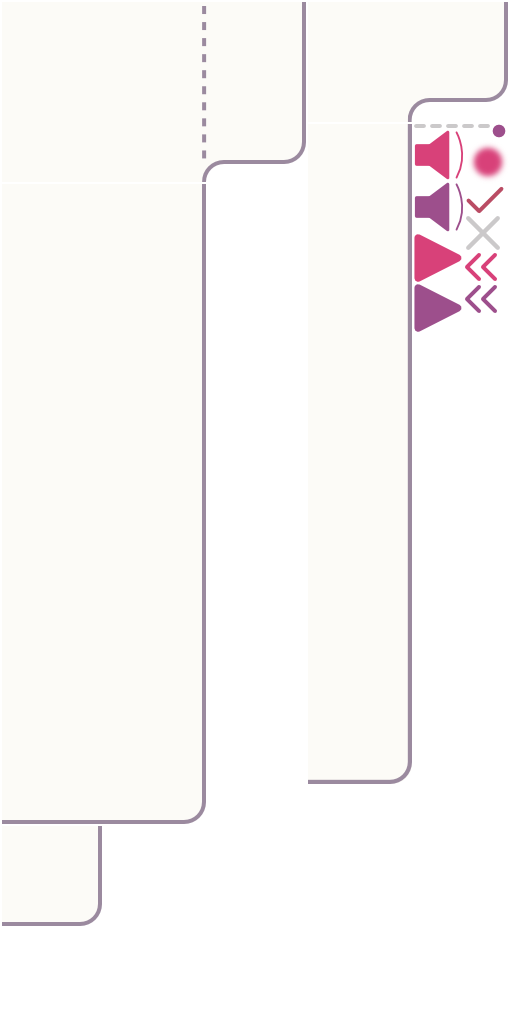
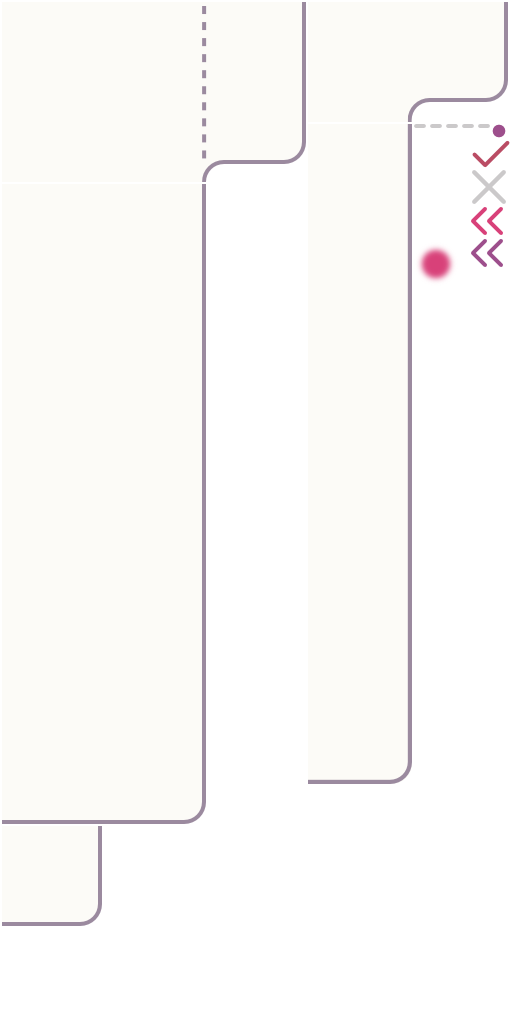
update play and speaker buttons

Changed region(s): [[0.7812, 0.125, 1.0, 0.3438]]

diff --git a/PttrnFlow/PttrnFlow/Generic Nodes/ToggleButton.m b/PttrnFlow/PttrnFlow/Generic Nodes/ToggleButton.m
@@ -11,15 +11,24 @@
 
 @interface ToggleButton ()
 
+@property (weak, nonatomic) id<ToggleButtonDelegate> delegate;
+
+// using different sprites for on / off state
 @property (weak, nonatomic) CCSprite *offSprite;
 @property (weak, nonatomic) CCSprite *onSprite;
-@property (weak, nonatomic) id<ToggleButtonDelegate> delegate;
+
+// using tint colors with one sprite for on / off state
+@property (assign) ccColor3B defaultColor;
+@property (assign) ccColor3B activeColor;
 
 @end
 
 @implementation ToggleButton
 
-- (id)initWithPlaceholderFrameName:(NSString *)placeholderFrameName offFrameName:(NSString *)offFrameName onFrameName:(NSString *)onFrameName delegate:(id<ToggleButtonDelegate>)delegate
+- (id)initWithPlaceholderFrameName:(NSString *)placeholderFrameName
+                      offFrameName:(NSString *)offFrameName
+                       onFrameName:(NSString *)onFrameName
+                          delegate:(id<ToggleButtonDelegate>)delegate
 {
     self = [super initWithSpriteFrameName:placeholderFrameName];
     if (self) {
@@ -43,11 +52,38 @@
     return self;
 }
 
+- (id)initWithFrameName:(NSString *)frameName
+           defaultColor:(ccColor3B)defaultColor
+            activeColor:(ccColor3B)activeColor
+               delegate:(id<ToggleButtonDelegate>)delegate
+{
+    self = [super initWithSpriteFrameName:frameName];
+    if (self) {
+        self.delegate = delegate;
+        self.defaultColor = defaultColor;
+        self.activeColor = activeColor;
+        self.color = defaultColor;
+    }
+    return self;
+}
+
+
 - (void)toggle
 {
     self.isOn = !self.isOn;
-    self.offSprite.visible = !self.isOn;
-    self.onSprite.visible = self.isOn;
+    
+    if (self.offSprite) {
+        self.offSprite.visible = !self.isOn;
+        self.onSprite.visible = self.isOn;
+    }
+    else {
+        if (self.isOn) {
+            self.color = self.activeColor;
+        }
+        else {
+            self.color = self.defaultColor;
+        }
+    }
     [self.delegate toggleButtonPressed:self];
 }
 

diff --git a/PttrnFlow/PttrnFlow/Layers/SequenceControlsLayer.m b/PttrnFlow/PttrnFlow/Layers/SequenceControlsLayer.m
@@ -81,13 +81,13 @@ static NSInteger const kRowLength = 8;
         
         
         // speaker (solution sequence) button
-        ToggleButton *speakerButton = [[ToggleButton alloc] initWithPlaceholderFrameName:@"clear_rect_uilayer.png" offFrameName:@"speaker_off.png" onFrameName:@"speaker_on.png" delegate:self];
+        ToggleButton *speakerButton = [[ToggleButton alloc] initWithFrameName:@"speaker.png" defaultColor:[ColorUtils dimPurple] activeColor:[ColorUtils activeYellow] delegate:self];
         self.speakerButton = speakerButton;
         speakerButton.position = ccp(kUITimelineStepWidth / 2, 75); // FIX ME LATER
         [self.uiBatchNode addChild:speakerButton];
         
         // play (user sequence) button
-        ToggleButton *playButton = [[ToggleButton alloc] initWithPlaceholderFrameName:@"clear_rect_uilayer.png" offFrameName:@"play_off.png" onFrameName:@"play_on.png" delegate:self];
+        ToggleButton *playButton = [[ToggleButton alloc] initWithFrameName:@"play.png" defaultColor:[ColorUtils dimPurple] activeColor:[ColorUtils activeYellow] delegate:self];
         self.playButton = playButton;
         playButton.position = ccp(speakerButton.position.x + kUITimelineStepWidth, speakerButton.position.y);
         [self.uiBatchNode addChild:playButton];

diff --git a/PttrnFlow/PttrnFlow/Generic Nodes/ToggleButton.h b/PttrnFlow/PttrnFlow/Generic Nodes/ToggleButton.h
@@ -20,7 +20,14 @@
 
 @property (assign) BOOL isOn;
 
-- (id)initWithPlaceholderFrameName:(NSString *)placeholderFrameName offFrameName:(NSString *)offFrameName onFrameName:(NSString *)onFrameName delegate:(id<ToggleButtonDelegate>)delegate;
+- (id)initWithPlaceholderFrameName:(NSString *)placeholderFrameName
+                      offFrameName:(NSString *)offFrameName
+                       onFrameName:(NSString *)onFrameName
+                          delegate:(id<ToggleButtonDelegate>)delegate;
+- (id)initWithFrameName:(NSString *)frameName
+           defaultColor:(ccColor3B)defaultColor
+            activeColor:(ccColor3B)activeColor
+               delegate:(id<ToggleButtonDelegate>)delegate;
 - (void)toggle;
 
 @end
